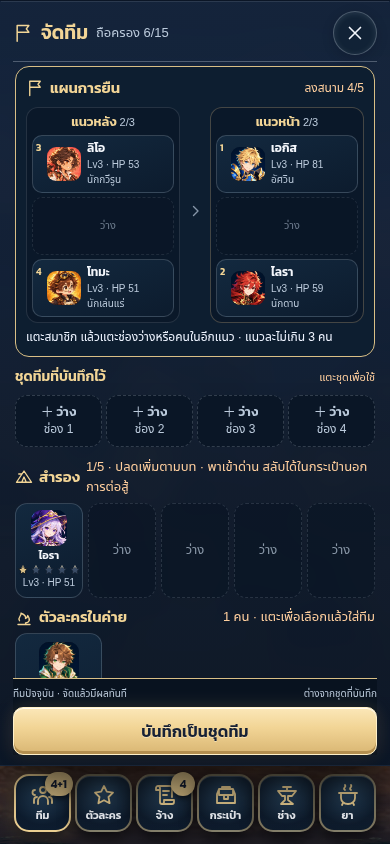
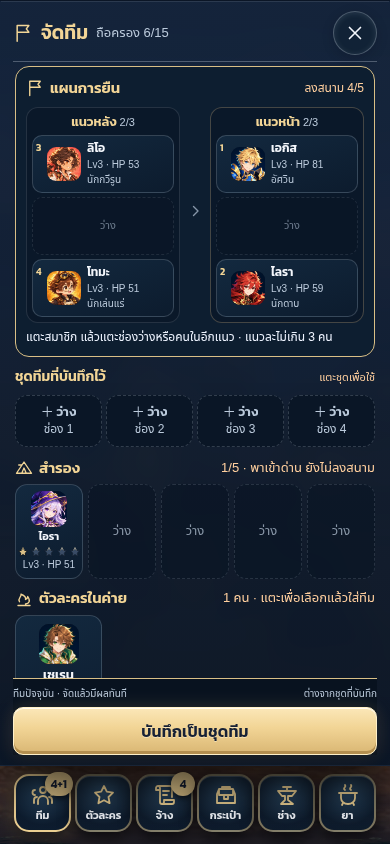
docs: complete formation-first team handoff after PR 205

diff --git a/CURRENT_STATE.md b/CURRENT_STATE.md
@@ -13,7 +13,7 @@ Keep this file short; dated history lives in `docs/handoffs/CODEX-TO-CLAUDE.md` 
 
 ## Active task
 
-- **TEAM-FORMATION-EDITOR-002 active:** owner approved formation-first mockup, no duplicate field list, unified reserve/camp placement and explicit preset save dialog. Branch `codex/team-formation-preset-layout`; local/full CI checks required before merge. Rules/save unchanged. Evidence: `docs/validation/team-formation-editor/README_TH.md`.
+- **TEAM-FORMATION-EDITOR-002 complete:** PR #205 merged (`7c40161`) after quality and all browser shards/aggregate passed. Formation is the sole field list, reserves/camp place atomically, presets save explicitly. Rules/save unchanged. Evidence: `docs/validation/team-formation-editor/README_TH.md`.
 - Camp HUD/direct Characters/compact quests complete in PR #204 (`deb193f`), all checks passed; evidence `docs/validation/camp-hud-layout/README_TH.md`.
 
 - **MAP-TEAM-CHARACTER-TABS-001 complete (2026-11-07, PR #203, merge `ae8889c`):** separate map team HUD/dialog (T), bag items/gear (B), one-tap carried-only presets; direct tree tab, MAP 4 character tabs/camp 5, development stays camp-only. Quality + browser passed. Rules/save/balance unchanged. Evidence: `docs/validation/map-team-character-tabs/README_TH.md`.
@@ -45,4 +45,4 @@ Keep this file short; dated history lives in `docs/handoffs/CODEX-TO-CLAUDE.md` 
 
 ## Opening prompt for next chat
 
-Continue TEAM-FORMATION-EDITOR-002 on codex/team-formation-preset-layout. Read AGENTS.md/CLAUDE.md; owner approved mockup implementation and session push/PR/merge/deploy. Finish quality + browser checks before merging into feature/fateweave-initial-prototype. Evidence: docs/validation/team-formation-editor/README_TH.md. P09 stays on hold.
+อ่าน AGENTS.md, CLAUDE.md และ CURRENT_STATE.md ใน feature/fateweave-initial-prototype แล้วรอเจ้าของเลือกงานถัดไป ไม่เริ่ม P09 เอง หน้าจัดทีมแบบแผนการยืนจุดเดียวเสร็จใน PR #205 หลัง quality/browser ผ่านทั้งหมด หลักฐาน: docs/validation/team-formation-editor/README_TH.md

diff --git a/docs/validation/team-formation-editor/README_TH.md b/docs/validation/team-formation-editor/README_TH.md
@@ -25,4 +25,12 @@
 
 UI placement unit checks 5/5 ผ่าน รวม atomic placement, ความจุแนว, ลำดับ, การย้ายจากคลังสมาชิก และการปฏิเสธโดยไม่เปลี่ยนต้นฉบับ
 
-Typecheck/lint/build และ browser checks สำหรับสมาชิก/preset/formation/จอเล็กกำลังทวนฉบับสุดท้ายก่อน merge; ผล CI และสถานะงานบันทึกใน handoff และ PR
+- Typecheck, lint, production build ผ่าน
+- Full unit suite: 1,662 passed, 6 skipped (รวม placement ใหม่ 5 กรณี)
+- Browser เฉพาะทีม/formation/preset/คลังสมาชิก/จอเล็ก: 23/23 ผ่าน
+- Compatibility อัปดาว สกิล อุปกรณ์ ทีม 5 คน และ NPC: 8/8 ผ่าน
+- Quality และ browser เต็มทั้ง 4 shards/aggregate ของ PR #205 ผ่านครบ
+
+## สถานะงาน
+
+Merge PR #205 เข้า `feature/fateweave-initial-prototype` แล้วที่ `7c401617eb232497339de979ab027ae37a3f008a` หลังผ่านทุก gate บันทึกภาพจริงฉบับสุดท้ายและสถานะส่งต่องานใน commit เอกสารนี้ ไม่มีการเปลี่ยนกติกาหรือ source เพิ่ม และไม่รอ/บันทึกผล Pages แยกตามขั้นตอน pre-release ของโครงการ

diff --git a/docs/handoffs/CODEX-TO-CLAUDE.md b/docs/handoffs/CODEX-TO-CLAUDE.md
@@ -1,10 +1,10 @@
 ## 2026-11-08 — TEAM-FORMATION-EDITOR-002
-- Branch `codex/team-formation-preset-layout`; PR/merge pending validation.
+- Branch `codex/team-formation-preset-layout`; Merged PR #205 into the game branch, merge `7c401617eb232497339de979ab027ae37a3f008a`, after quality + all browser shards/aggregate passed.
 - Owner approved formation-first mockup: remove duplicate field strip, place reserves/camp members on the plan, save exact team as preset explicitly.
 - One selection for diagram/roster, atomic group+lane UI adapter, existing world validators and save/preset schema unchanged.
 - Native preset dialog: choose slot/name, explicit overwrite, rename/clear preserved, Escape/focus/rotation gates.
 - Keep scout NPC greeting below the top formation. Map/battle UI unchanged.
-- Placement unit 5/5 passed; final typecheck/lint/build/browser/unit suite in progress.
+- Local typecheck/lint/build passed; unit 1,662 passed + 6 skipped, focused browser 23/23 + compatibility 8/8 passed. Full CI quality + browser passed.
 - Evidence and actual 390px screenshots: `docs/validation/team-formation-editor/README_TH.md`.
 - No battle/save/balance changes; real-device Safari remains unverified. P09 stays on hold.
 
